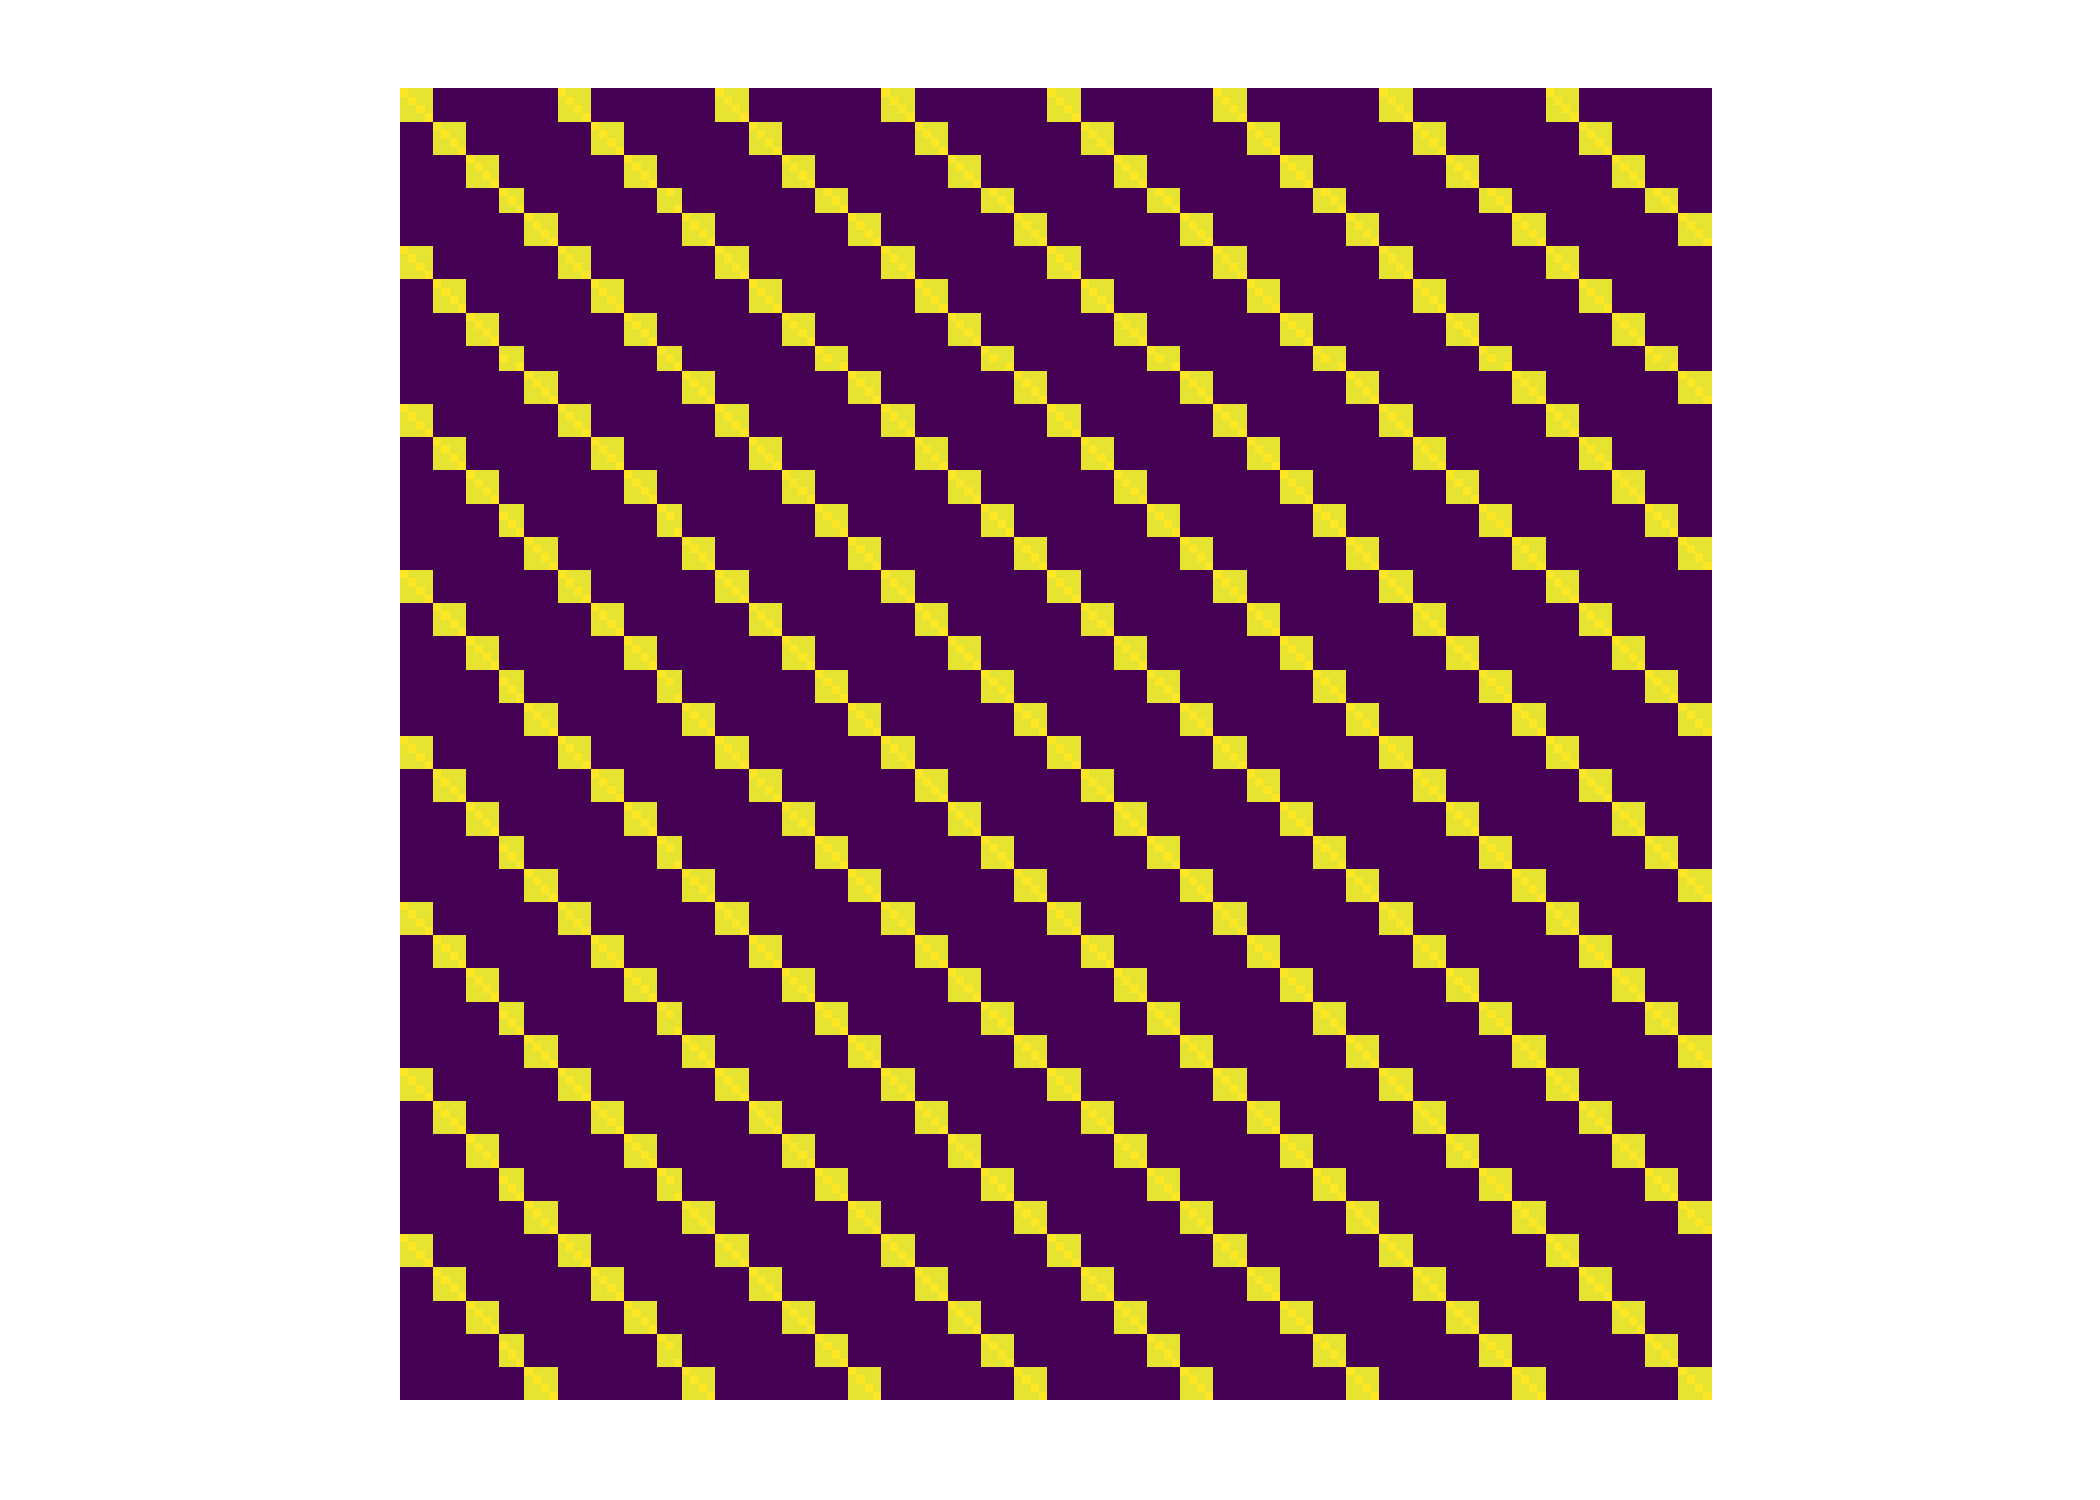
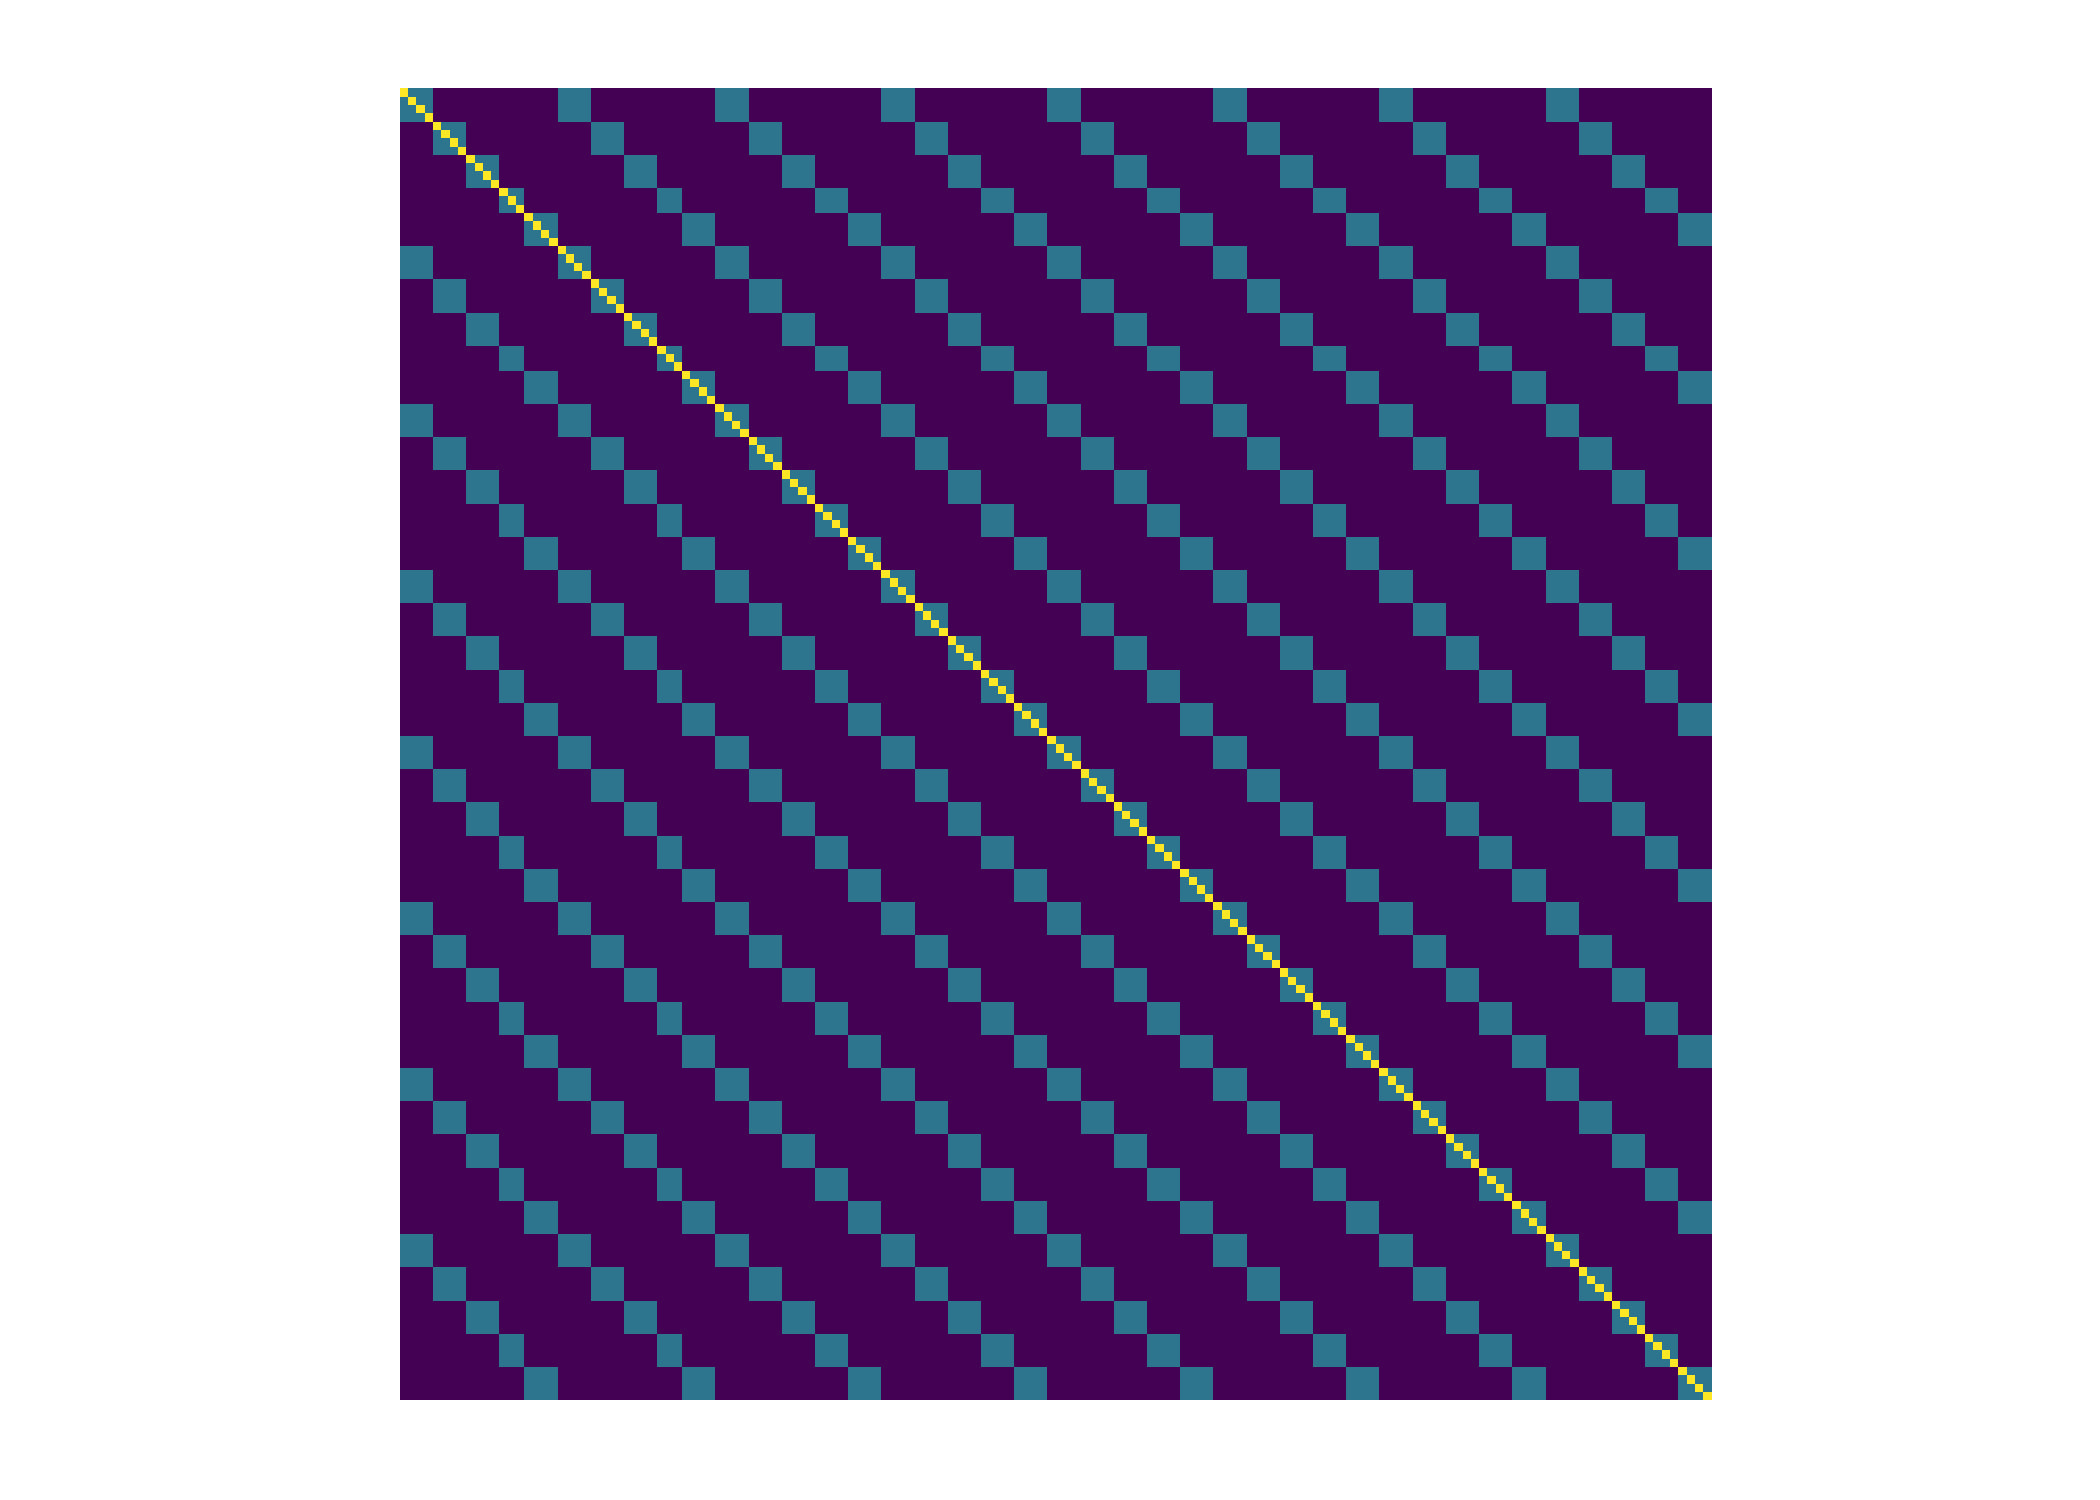
part 1

diff --git a/content/1-intro.md b/content/1-intro.md
@@ -258,19 +258,22 @@ Discuss the assumptions:
 - **Independence**  
 - Normality  
 
-{% include figure.html img="day1/covmatrix_crd.jpg" alt="Multivariate Normal distribution" caption="Figure 6. Visual representation of the variance-covariance matrix assuming independent observations." width="75%" id = "multivariate_normal" %}
+{% include figure.html img="day1/covmatrix_crd.jpg" alt="Multivariate Normal distribution" caption="Figure 6. Visual representation of the variance-covariance matrix assuming independent observations. Each tile is an element of the variance-covariance matrix. Tile color indicates said covariance." width="75%" id = "multivariate_normal" %}
 
 
 ### Non-independent observations  
 
-So, the assumption of independence was kind of a stretch. 
-The yield data come from 5 different fields, and  
-This means that the observations are no longer independent, because apples from the same field are more similar to each other than apples from different fields.
-This is when mixed-effects models enter the story - they allow us to indicate *what is similar to what* via random effects. 
-In this case, we expect the growth rate to be similar among fields, but the baseline (a.k.a., the intercept) to be field-specific. Then,   
+The yield data come from 5 different fields.   
+Which means that the assumption of independence was kind of a stretch. 
+In reality, all observations from the same field have *something* in common. 
+It's not reasonable to assume that the observations are independent, because observations from the same field have more in common than observations from different fields. 
+They share the soil and environments and, with that, a baseline fertility and yield potential. 
+
+Basically, we expect the yield response to N fertilizer is similar among fields, but the baseline (a.k.a., the intercept) to be field-specific. Then,   
 
 $$y_{ij} = \beta_{0j} + x_{ij} \beta_1 + \varepsilon_{ij}, \\ \varepsilon_{ij} \sim N(0, \sigma^2),$$  
 
+Now, there are different ways to model that field-specific intercept. 
 
 {% include modal.html button="Example data" color="success" title="Example data" 
 text='<head>
@@ -301,59 +304,59 @@ text='<head>
 <body>
     <table>
         <tr>
-            <th>day</th>
-            <th>diameter_cm</th>
+            <th>Nfert_lbac</th>
+            <th>yield_kgha</th>
             <th>field</th>
         </tr>
         <tr>
-            <td>3</td>
-            <td>2.9</td>
+            <td>0</td>
+            <td>5324</td>
             <td>A</td>
         </tr>
         <tr>
-            <td>3</td>
-            <td>2.8</td>
-            <td>B</td>
-        </tr>
-        <tr>
-            <td>3</td>
-            <td>2.9</td>
-            <td>C</td>
-        </tr>
-        <tr>
-            <td>3</td>
-            <td>2.7</td>
-            <td>D</td>
-        </tr>
-        <tr>
-            <td>3</td>
-            <td>3.0</td>
-            <td>E</td>
-        </tr>
-        <tr>
-            <td>6</td>
-            <td>3.6</td>
+            <td>0</td>
+            <td>6328</td>
             <td>A</td>
         </tr>
         <tr>
-            <td>6</td>
-            <td>3.9</td>
+            <td>0</td>
+            <td>4021</td>
+            <td>A</td>
+        </tr>
+        <tr>
+            <td>0</td>
+            <td>7569</td>
+            <td>A</td>
+        </tr>
+        <tr>
+            <td>0</td>
+            <td>8359</td>
             <td>B</td>
         </tr>
         <tr>
-            <td>6</td>
-            <td>3.7</td>
+            <td>0</td>
+            <td>7447</td>
+            <td>B</td>
+        </tr>
+        <tr>
+            <td>0</td>
+            <td>5897</td>
+            <td>B</td>
+        </tr>
+        <tr>
+            <td>0</td>
+            <td>6796</td>
+            <td>B</td>
+        </tr>
+        <tr>
+            <td>0</td>
+            <td>6566</td>
             <td>C</td>
         </tr>
         <tr>
-            <td>6</td>
-            <td>3.8</td>
-            <td>D</td>
-        </tr>
-        <tr>
-            <td>6</td>
-            <td>3.7</td>
-            <td>E</td>
+            <td>0</td>
+            <td>7164</td>
+            <td>C</td>
         </tr>
     </table>
 </body>
@@ -361,63 +364,68 @@ text='<head>
 These data would mean  
 
 $$\mathbf{y} = \begin{bmatrix} 
-2.9 \\
-2.8 \\
-2.9 \\
-2.7 \\
-3.0 \\
-3.6 \\
-3.9 \\
-3.7 \\
-3.8 \\
-3.7 \end{bmatrix}$$.
+5324 \\
+6328 \\
+4021 \\
+7569 \\
+8359 \\
+7447 \\
+5897 \\
+6796 \\
+6566 \\
+7164 \end{bmatrix}$$.
 
 For the all-fixed model, 
 $$\mathbf{X} = \begin{bmatrix} 
-1 & 3 & 1 & 0 & 0 & 0 & 0 \\
-1 & 3 & 0 & 1 & 0 & 0 & 0 \\
-1 & 3 & 0 & 0 & 1 & 0 & 0 \\
-1 & 3 & 0 & 0 & 0 & 1 & 0 \\
-1 & 3 & 0 & 0 & 0 & 0 & 1 \\
-1 & 6 & 1 & 0 & 0 & 0 & 0 \\
-1 & 6 & 0 & 1 & 0 & 0 & 0 \\
-1 & 6 & 0 & 0 & 1 & 0 & 0 \\
-1 & 6 & 0 & 0 & 0 & 1 & 0 \\
-1 & 6 & 0 & 0 & 0 & 0 & 1 \end{bmatrix}.$$
+1 & 0 & 0 & 1 & 0 & 0 & 0 & 0 \\
+1 & 0 & 0 & 1 & 0 & 0 & 0 & 0 \\
+1 & 0 & 0 & 1 & 0 & 0 & 0 & 0 \\
+1 & 0 & 0 & 1 & 0 & 0 & 0 & 0 \\
+1 & 0 & 0 & 0 & 1 & 0 & 1 & 0 \\
+1 & 0 & 0 & 0 & 1 & 0 & 0 & 0 \\
+1 & 0 & 0 & 0 & 1 & 0 & 0 & 0 \\
+1 & 0 & 0 & 0 & 1 & 0 & 0 & 0 \\
+1 & 0 & 0 & 0 & 0 & 1 & 0 & 0 \\
+1 & 0 & 0 & 0 & 0 & 1 & 0 & 0\end{bmatrix}.$$
 
 For the mixed model, 
 
 $$\mathbf{X} = \begin{bmatrix} 
-1 & 3 \\
-1 & 3 \\
-1 & 3 \\
-1 & 3 \\
-1 & 3 \\
-1 & 6 \\
-1 & 6 \\
-1 & 6 \\
-1 & 6 \\
-1 & 6 \end{bmatrix},$$
+1 & 0 \\
+1 & 0 \\
+1 & 0 \\
+1 & 0 \\
+1 & 0 \\
+1 & 0 \\
+1 & 0 \\
+1 & 0 \\
+1 & 0 \\
+1 & 0 \end{bmatrix},$$
 $$\mathbf{Z} = \begin{bmatrix} 
 1 & 0 & 0 & 0 & 0 \\
-0 & 1 & 0 & 0 & 0 \\
-0 & 0 & 1 & 0 & 0 \\
-0 & 0 & 0 & 1 & 0 \\
-0 & 0 & 0 & 0 & 1 \\
+1 & 0 & 0 & 0 & 0 \\
+1 & 0 & 0 & 0 & 0 \\
 1 & 0 & 0 & 0 & 0 \\
 0 & 1 & 0 & 0 & 0 \\
+0 & 1 & 0 & 0 & 0 \\
+0 & 1 & 0 & 0 & 0 \\
+0 & 1 & 0 & 0 & 0 \\
 0 & 0 & 1 & 0 & 0 \\
-0 & 0 & 0 & 1 & 0 \\
-0 & 0 & 0 & 0 & 1 \end{bmatrix}.$$
+0 & 0 & 1 & 0 & 0 \end{bmatrix}.$$
 ' %}
 
 ### How do we define $$\beta_{0j}$$?
 
-#### Fixed   
+This is a big forking path in statistical modeling. 
+All-fixed models estimate the effects 
+Mixed-effects models indicate *what is similar to what* via random effects. 
 
-So far, we could have defined an all-fixed model. 
 
-$$y_{ij} = \beta_{0j} + x_{ij} \beta_1 + \varepsilon_{ij}, \\ \beta_{0j} = \beta_0 + u_j \\ \varepsilon_{ij} \sim N(0, \sigma^2),$$  
+#### Fixed effects   
+
+So far, we could have defined an all-fixed model.  
+
+$$y_{ij} = \beta_{0j} + x_{ij} \beta_1 + x^2_{ij} \beta_2 + \varepsilon_{ij}, \\ \beta_{0j} = \beta_0 + u_j \\ \varepsilon_{ij} \sim N(0, \sigma^2),$$  
 
 where $$u_j$$ is the effect of the $$j$$th field on the intercept (i.e., on the baseline). 
 In this case, $$u_j$$ is a fixed effect, which means it may be estimated via least squares estimation or maximum likelihood estimation. 
@@ -427,15 +435,15 @@ $$\hat{\boldsymbol{\beta}}_{ML} = (\mathbf{X}^T\mathbf{X})^{-1}\mathbf{X}^T\math
 
 which yields the minimum variance unbiased estimate of $$\boldsymbol{\beta}$$. 
 
-#### Random   
+#### Random effects  
 
-We could also assume that the effects of the $$j$$th tree (i.e., $$b_j$$) arise from a random distribution. 
+We could also assume that the effects of the $$j$$th field (i.e., $$u_j$$) arise from a random distribution. 
 The most common assumption (and the default in most statistical software) is that 
 
 $$u_j \sim N(0, \sigma^2_b).$$
 
 Now, we don't estimate the effect, but the variance $$\sigma^2_b$$. 
-Note that there are $$J$$ levels of the random effects, meaning they are **categorical**.  
+Note that there are $$J$$ levels of the random effects, meaning that a random effect is always **categorical**.  
 Also, now 
 
 $$\hat{\boldsymbol{\beta}}_{REML} = (\mathbf{X}^T \mathbf{V}^{-1} \mathbf{X})^{-1}\mathbf{X}^T \mathbf{V}^{-1} \mathbf{y},$$
@@ -623,7 +631,7 @@ Some good references:
 
 {% include figure.html img="day1/emmeans_blocks.jpg" alt="" caption="Figure 5. Results from a designed experiment. Colors indicate different model assumptions." width="100%" id = "applied_ex" %}
 
-### Building the model  
+### Building a statistical model  
 
 1. What is the *experiment blueprint*? (aka design structure)  
 2. What are the treatments?  
